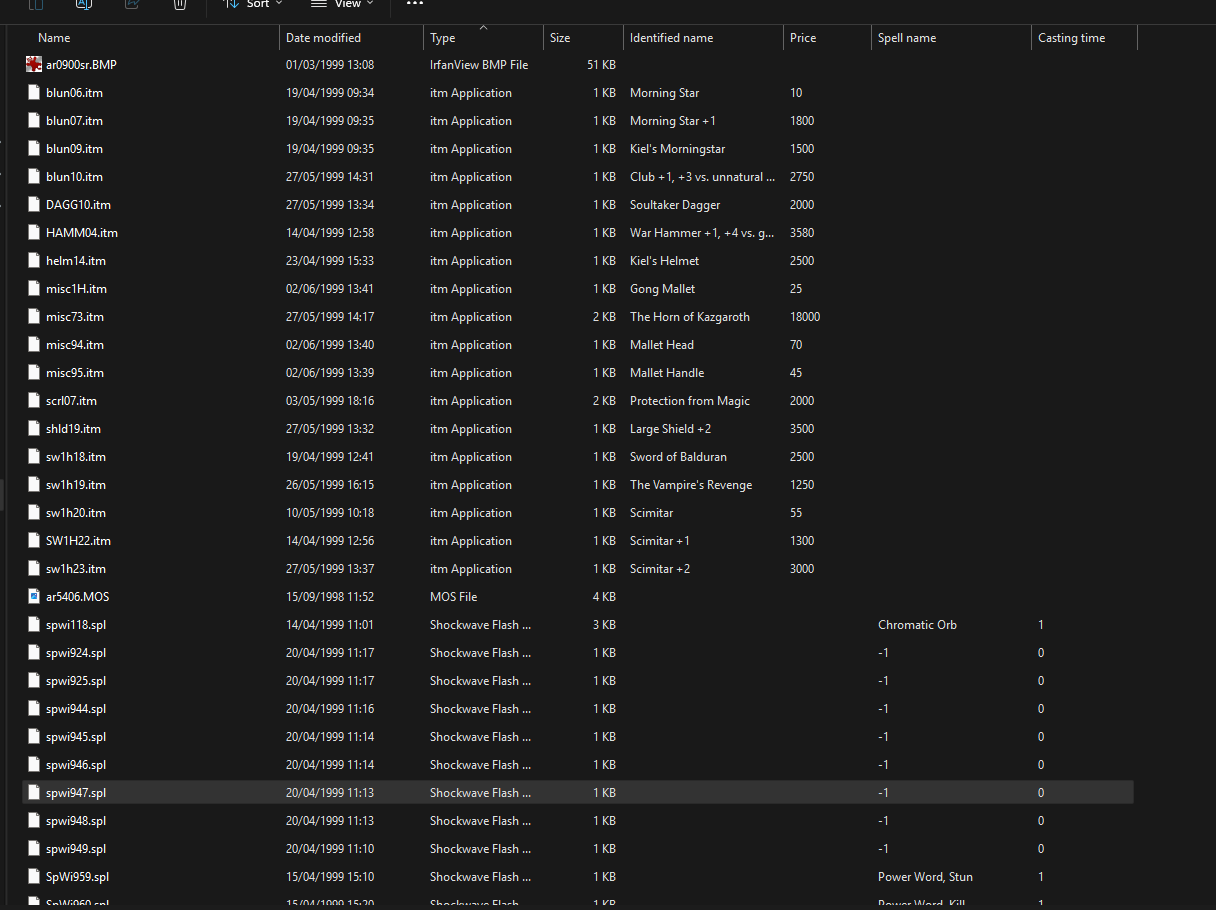
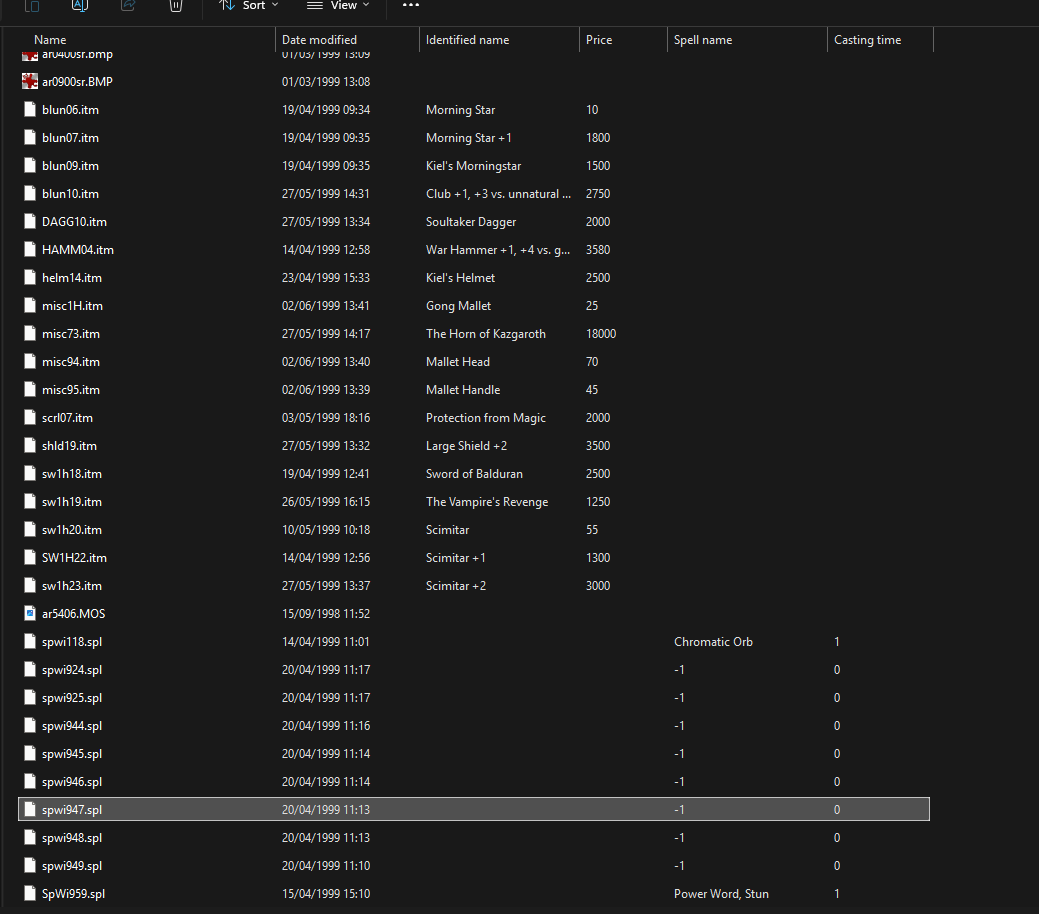
Clearer screenshot

diff --git a/README.md b/README.md
@@ -162,4 +162,4 @@ A column can be set as `"enabled": false` to hide it without deleting it from th
 
 ieColumn is licenced under the GPL 2.0 License. Full licence details are available in licence.md
 
-JSON parsing uses the vendored [nlohmann/json](https://github.com/nlohmann/json) single header (`third_party/nlohmann/json.hpp`), which is MIT licensed.
+JSON parsing uses [nlohmann/json](https://github.com/nlohmann/json) licensed under MIT.
